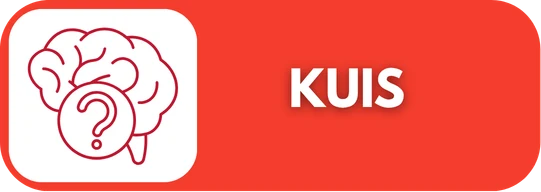
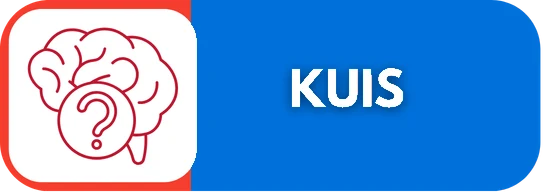
feat(menu,3d): remove simulasi page, update 5-button menu layout, and update kerongkongan 3d embed model

diff --git a/src/data/modules.ts b/src/data/modules.ts
@@ -1,11 +1,10 @@
 import btnPengantar from '../assets/menu-screen/button-pengantar.webp';
 import btnMateri from '../assets/menu-screen/button-materi.webp';
-import btnSimulasi from '../assets/menu-screen/button-simulasi.webp';
 import btnPetunjuk from '../assets/menu-screen/button-petunjuk.webp';
 import btn3dDimensi from '../assets/menu-screen/button-3d-dimensi.webp';
 import btnKuis from '../assets/menu-screen/button-kuis.webp';
 
-export type MenuKey = 'pengantar' | 'materi' | 'simulasi' | 'petunjuk' | '3d' | 'kuis';
+export type MenuKey = 'pengantar' | 'materi' | '3d' | 'petunjuk' | 'kuis';
 
 export interface MenuItem {
   id: MenuKey;
@@ -40,14 +39,14 @@ export const MENU_ITEMS: MenuItem[] = [
     features: ['Pencernaan Mekanik & Kimiawi', 'Enzim-Enzim Pencernaan', 'Struktur Jaringan Organ'],
   },
   {
-    id: 'simulasi',
-    title: 'Simulasi Interaktif Gastrointestinal',
+    id: '3d',
+    title: 'Model Anatomi 3 Dimensi',
     badge: 'Modul 3',
-    img: btnSimulasi,
-    color: '#1a73e8',
-    icon: '🧪',
-    description: 'Eksperimen langsung dengan alur makanan interaktif! Amati bagaimana peristaltik menggerakkan bolus dan bagaimana asam lambung mencerna makanan.',
-    features: ['Kontrol Alur Makanan Real-time', 'Uji pH & Reaksi Enzim', 'Visualisasi Gerak Peristaltik'],
+    img: btn3dDimensi,
+    color: '#d61ca8',
+    icon: '🧊',
+    description: 'Visualisasi 3D anatomi sistem pencernaan beresolusi tinggi. Putar, zoom, dan telaah tiap organ pencernaan dari berbagai sudut pandang.',
+    features: ['Rotasi Bebas 360 Derajat', 'Zoom Detail Anatomi', 'Label Hotspot Interaktif'],
   },
   {
     id: 'petunjuk',
@@ -57,26 +56,16 @@ export const MENU_ITEMS: MenuItem[] = [
     color: '#0ca653',
     icon: '🧭',
     description: 'Panduan navigasi praktis bagi siswa dan guru dalam memanfaatkan seluruh fitur pembelajaran interaktif yang ada di dalam DIGESTA.',
-    features: ['Cara Menjalankan Simulasi', 'Navigasi Menu & Hotspot', 'Tips Penggunaan di Kelas'],
-  },
-  {
-    id: '3d',
-    title: 'Model Anatomi 3 Dimensi',
-    badge: 'Modul 4',
-    img: btn3dDimensi,
-    color: '#d61ca8',
-    icon: '🧊',
-    description: 'Visualisasi 3D anatomi sistem pencernaan beresolusi tinggi. Putar, zoom, dan telaah tiap organ pencernaan dari berbagai sudut pandang.',
-    features: ['Rotasi Bebas 360 Derajat', 'Zoom Detail Anatomi', 'Label Hotspot Interaktif'],
+    features: ['Cara Menjalankan Pembelajaran', 'Navigasi Menu & Hotspot', 'Tips Penggunaan di Kelas'],
   },
   {
     id: 'kuis',
     title: 'Kuis & Evaluasi Pemahaman',
     badge: 'Evaluasi',
     img: btnKuis,
-    color: '#e03b22',
+    color: '#0071db',
     icon: '🎯',
     description: 'Uji pemahamanmu tentang sistem pencernaan lewat tantangan kuis bergambar, tebak organ, dan evaluasi hasil belajar interaktif!',
-    features: ['Kuis Pilihan Ganda & Drag-Drop', 'Papan Skor Interaktif', 'Pembahasan Langsung'],
+    features: ['Kuis Pilihan Ganda & Analisis Kasus', 'Papan Skor Interaktif', 'Pembahasan Langsung'],
   },
 ];

diff --git a/src/components/MenuScreen/MenuScreen.tsx b/src/components/MenuScreen/MenuScreen.tsx
@@ -187,26 +187,49 @@ export const MenuScreen: React.FC<MenuScreenProps> = ({
           />
         </button>
 
-        {/* Layer 3: Grid 6 Tombol Menu Utama (2 Baris x 3 Kolom) */}
-        <div className="menuscreen-grid-container">
-          {MENU_ITEMS.map((item) => (
-            <button
-              key={item.id}
-              type="button"
-              className={`menuscreen-menu-card menuscreen-card-${item.id}`}
-              onClick={() => handleMenuClick(item)}
-              onMouseEnter={() => playSound('soft')}
-              title={item.title}
-              aria-label={item.title}
-            >
-              <img
-                src={item.img}
-                alt={item.title}
-                className="menuscreen-card-img"
-                draggable={false}
-              />
-            </button>
-          ))}
+        {/* Layer 3: Tata Letak Tombol Menu (Baris 1: 3 Tombol, Baris 2: 2 Tombol Terpusat) */}
+        <div className="menuscreen-menu-layout">
+          <div className="menuscreen-row menuscreen-row-top">
+            {MENU_ITEMS.slice(0, 3).map((item) => (
+              <button
+                key={item.id}
+                type="button"
+                className={`menuscreen-menu-card menuscreen-card-${item.id}`}
+                onClick={() => handleMenuClick(item)}
+                onMouseEnter={() => playSound('soft')}
+                title={item.title}
+                aria-label={item.title}
+              >
+                <img
+                  src={item.img}
+                  alt={item.title}
+                  className="menuscreen-card-img"
+                  draggable={false}
+                />
+              </button>
+            ))}
+          </div>
+
+          <div className="menuscreen-row menuscreen-row-bottom">
+            {MENU_ITEMS.slice(3, 5).map((item) => (
+              <button
+                key={item.id}
+                type="button"
+                className={`menuscreen-menu-card menuscreen-card-${item.id}`}
+                onClick={() => handleMenuClick(item)}
+                onMouseEnter={() => playSound('soft')}
+                title={item.title}
+                aria-label={item.title}
+              >
+                <img
+                  src={item.img}
+                  alt={item.title}
+                  className="menuscreen-card-img"
+                  draggable={false}
+                />
+              </button>
+            ))}
+          </div>
         </div>
 
         {/* Modal Pengaturan (Settings) */}

diff --git a/src/components/MenuScreen/MenuScreen.css b/src/components/MenuScreen/MenuScreen.css
@@ -120,18 +120,32 @@
   pointer-events: none;
 }
 
-/* Layer 3: Grid 6 Tombol Menu (2 Baris x 3 Kolom) - Presisi 1:1 Sesuai Referensi */
-.menuscreen-grid-container {
+/* Layer 3: Tata Letak 5 Tombol Menu (Baris 1: 3 Tombol, Baris 2: 2 Tombol Terpusat) */
+.menuscreen-menu-layout {
   position: absolute;
   left: 50%;
   top: 54.1%;
   transform: translateX(-50%);
-  width: 95%;
-  display: grid;
-  grid-template-columns: repeat(3, 1fr);
-  column-gap: 6.1%;
-  row-gap: 5.2%;
+  width: 95.5%;
+  display: flex;
+  flex-direction: column;
+  gap: clamp(14px, 1.8cqw, 36px);
   z-index: 10;
+}
+
+.menuscreen-row {
+  display: flex;
+  align-items: center;
+  width: 100%;
+}
+
+.menuscreen-row-top {
+  justify-content: space-between;
+}
+
+.menuscreen-row-bottom {
+  justify-content: center;
+  gap: 11.2%;
 }
 
 .menuscreen-menu-card {
@@ -139,12 +153,13 @@
   border: none;
   padding: 0;
   cursor: pointer;
-  width: 100%;
+  width: 29.26%;
   border-radius: clamp(12px, 1.5cqw, 24px);
   display: block;
   outline: none;
   transition: transform 0.22s cubic-bezier(0.34, 1.56, 0.64, 1), filter 0.22s ease;
   position: relative;
+  flex-shrink: 0;
 }
 
 .menuscreen-menu-card:hover {

diff --git a/src/services/assetManifest.ts b/src/services/assetManifest.ts
@@ -17,7 +17,6 @@ import digestaLogo from '../assets/logo-digiesta.webp';
 import logoAnimation from '../assets/logo-animation/logo-animation.webp';
 import btnMateri from '../assets/menu-screen/button-materi.webp';
 import btnPengantar from '../assets/menu-screen/button-pengantar.webp';
-import btnSimulasi from '../assets/menu-screen/button-simulasi.webp';
 import btn3D from '../assets/menu-screen/button-3d-dimensi.webp';
 import btnKuis from '../assets/menu-screen/button-kuis.webp';
 import btnPetunjuk from '../assets/menu-screen/button-petunjuk.webp';
@@ -192,7 +191,6 @@ export const ASSETS_TO_PRELOAD: PreloadItem[] = [
   { url: menuBg, label: 'Latar Belakang Menu' },
   { url: btnMateri, label: 'Modul Tombol Materi' },
   { url: btnPengantar, label: 'Modul Tombol Pengantar' },
-  { url: btnSimulasi, label: 'Modul Tombol Simulasi' },
   { url: btn3D, label: 'Modul Tombol 3D Organ' },
   { url: btnKuis, label: 'Modul Tombol Kuis' },
   { url: btnPetunjuk, label: 'Modul Tombol Petunjuk' },

diff --git a/src/components/Menu3DScreen/Menu3DScreen.tsx b/src/components/Menu3DScreen/Menu3DScreen.tsx
@@ -25,7 +25,7 @@ const ORGAN_3D_TOPICS: Organ3DTopic[] = [
     id: 'kerongkongan',
     name: 'Kerongkongan (Esofagus)',
     label: 'KERONGKONGAN',
-    modelId: '479c15c7e6fe4cdb8c481f4d2047a686',
+    modelId: '8bb7a83f952d4071b8a2c89812f646f0',
     description: 'Saluran berotot yang menggerakkan bolus dengan gerak peristaltik.',
   },
   {
